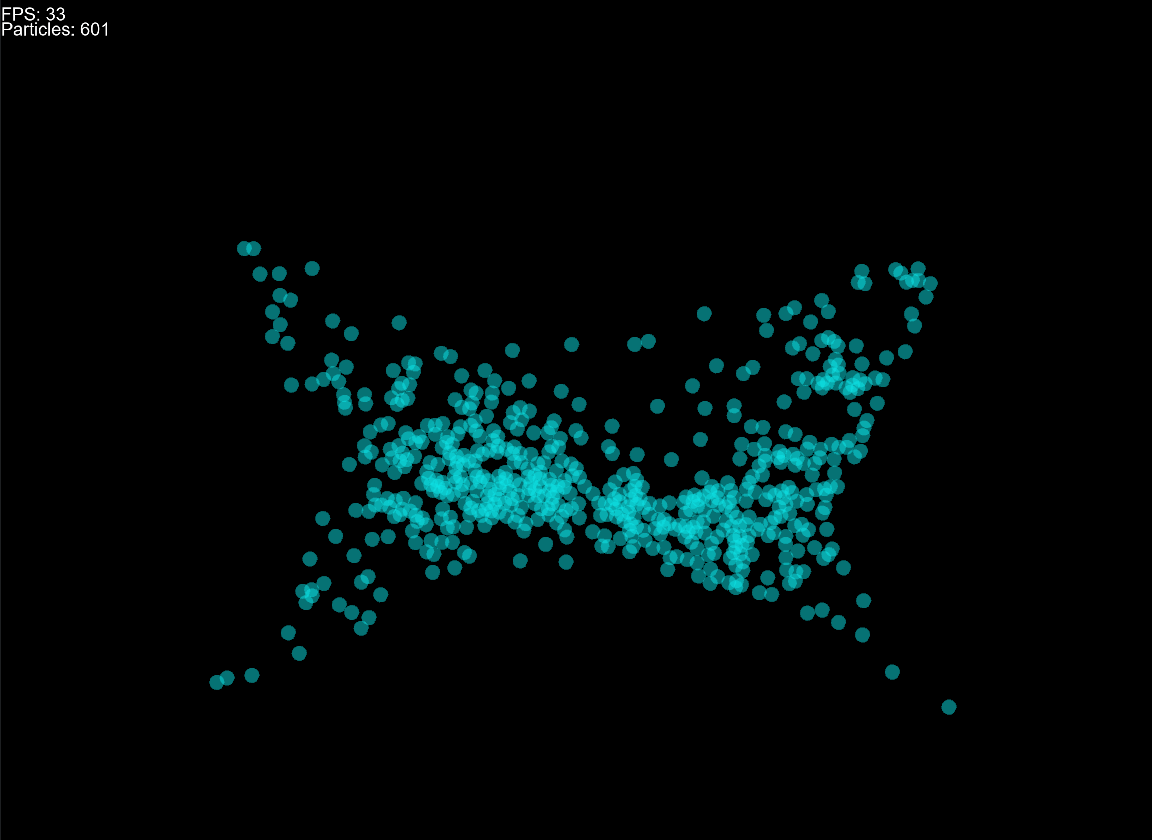
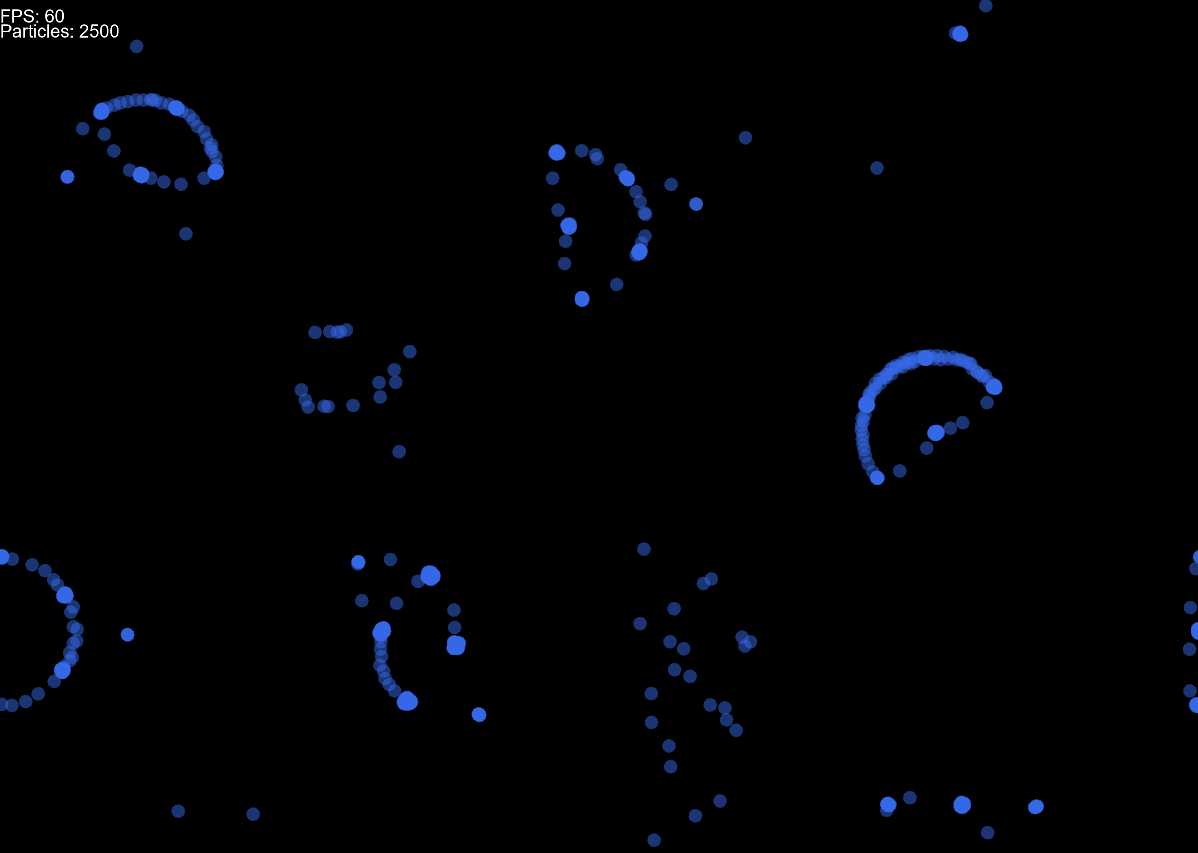
Distance calculation reworked

diff --git a/src/graphics/main/GraphicContext.cpp b/src/graphics/main/GraphicContext.cpp
@@ -234,8 +234,8 @@ void GraphicContext::Render()
     shader_particle->SetVec3("particleColor", glm::vec3(0.21, 0.41, 0.91));
     glBindVertexArray(ParticleAdapter::VAO);
     
-    float repulsion_factor = 0.00025f; // You can adjust this value
-    float attraction_factor = 0.0001f; // You can adjust this value
+    float repulsion_factor = 0.1f; // You can adjust this value
+    float attraction_factor = 0.04f; // You can adjust this value
 
     m_ParticleAdaptersMutex.lock();
     for(int i = 0; i < nb_ParticleAdapters3; i++)
@@ -249,56 +249,99 @@ void GraphicContext::Render()
         __m256 scalar_x = _mm256_set1_ps(xvalue);
         __m256 scalar_y = _mm256_set1_ps(yvalue);
 
-        for(int j = 0; (j+8) < nb_ParticleAdapters3; j+=8)
+        // Do each configuration considering the repetition of the world
+        // Careful, for each configuration, sometimes the configuration is within worldbounds, you can't apply it.
+        // find other configurations that are outside worldbounds to simulate the repetition of the world.
+        // Ignoring first configuration (scalar_x, scalar_y), it will be the first calculation.
+        std::vector<std::pair<__m256, __m256>> vec_scalarXY_config;
+        vec_scalarXY_config.push_back(std::make_pair(scalar_x, scalar_y));
+
+        __m256 scalarX_left_to_right = _mm256_add_ps(scalar_x, _mm256_set1_ps(worldWidth));
+        __m256 scalarX_right_to_left = _mm256_sub_ps(scalar_x, _mm256_set1_ps(worldWidth));
+        __m256 scalarY_bottom_to_top = _mm256_add_ps(scalar_y, _mm256_set1_ps(worldHeight));
+        __m256 scalarY_top_to_bottom = _mm256_sub_ps(scalar_y, _mm256_set1_ps(worldHeight));
+
+        if(xvalue < (worldWidth / 2))
+        {
+            if(yvalue < (worldHeight / 2))
+            {
+                // Bottom left corner.
+                vec_scalarXY_config.push_back(std::make_pair(scalar_x, scalarY_bottom_to_top)); // repetition of y on (bottom transported to top)
+                vec_scalarXY_config.push_back(std::make_pair(scalarX_left_to_right, scalar_y)); // repetition of x on (left transported to right)
+            }
+            else
+            {
+                // Top left corner.
+                vec_scalarXY_config.push_back(std::make_pair(scalar_x, scalarY_top_to_bottom)); // repetition of y on (top transported to bottom)
+                vec_scalarXY_config.push_back(std::make_pair(scalarX_left_to_right, scalar_y)); // repetition of x on (left transported to right)
+            }
+        }else 
+        {
+            if(yvalue < (worldHeight / 2))
+            {
+                // Bottom right corner.
+                vec_scalarXY_config.push_back(std::make_pair(scalar_x, scalarY_bottom_to_top)); // repetition of y on (bottom transported to top)
+                vec_scalarXY_config.push_back(std::make_pair(scalarX_right_to_left, scalar_y)); // repetition of x on (right transported to left)
+            }
+            else
+            {
+                // Top right corner.
+                vec_scalarXY_config.push_back(std::make_pair(scalar_x, scalarY_top_to_bottom)); // repetition of y on (top transported to bottom)
+                vec_scalarXY_config.push_back(std::make_pair(scalarX_right_to_left, scalar_y)); // repetition of x on (right transported to left)
+            }
+        }    
+        
+        int sizeConfig = vec_scalarXY_config.size();
+        
+
+        for(int j = 0; (j+8) <= nb_ParticleAdapters3; j+=8)
         {
             // load vector (other x and y)
             __m256 vecX = _mm256_load_ps(&m_ParticleAdapters3_posX[j]);
             __m256 vecY = _mm256_load_ps(&m_ParticleAdapters3_posY[j]);
-            // Calculate the distance between the current particle and all the other
+            // Calculate the minimal distance considering the available configurations
+            // init distance, sub_x, sub_y
             __m256 sub_x = _mm256_sub_ps(vecX, scalar_x);
             __m256 sub_y = _mm256_sub_ps(vecY, scalar_y);
+            
+            __m256 distance = _mm256_add_ps(_mm256_mul_ps(sub_x, sub_x), _mm256_mul_ps(sub_y, sub_y));
 
+            for(int k= 0; k < sizeConfig; k++)
+            {
+                __m256 tempsub_x = _mm256_sub_ps(vecX, vec_scalarXY_config[k].first);
+                __m256 tempsub_y = _mm256_sub_ps(vecY, vec_scalarXY_config[k].second);
+                __m256 distance_temp = _mm256_add_ps(_mm256_mul_ps(tempsub_x, tempsub_x), _mm256_mul_ps(tempsub_y, tempsub_y));
+                __m256 mask = _mm256_cmp_ps(distance_temp, distance, _CMP_LT_OQ);
+                distance = _mm256_blendv_ps(distance, distance_temp, mask);
+                sub_x = _mm256_blendv_ps(sub_x, tempsub_x, mask);
+                sub_y = _mm256_blendv_ps(sub_y, tempsub_y, mask);
+            }
 
-            // ---- Needs to be reworked, it's not working properly (particles find a spot to rest and don't move anymore or at least, don't make something uniform)
-            __m256 mask_x = _mm256_cmp_ps(sub_x, _mm256_set1_ps(800.0f), _CMP_GT_OQ);
-            __m256 mask_y = _mm256_cmp_ps(sub_y, _mm256_set1_ps(600.0f), _CMP_GT_OQ);
-            __m256 mask_x2 = _mm256_cmp_ps(sub_x, _mm256_set1_ps(-800.0f), _CMP_LT_OQ);
-            __m256 mask_y2 = _mm256_cmp_ps(sub_y, _mm256_set1_ps(-600.0f), _CMP_LT_OQ);
-            __m256 other_x = _mm256_blendv_ps(vecX, _mm256_sub_ps(vecX, _mm256_set1_ps(1600.0f)), mask_x);
-            __m256 other_y = _mm256_blendv_ps(vecY, _mm256_sub_ps(vecY, _mm256_set1_ps(1200.0f)), mask_y);
-            other_x = _mm256_blendv_ps(other_x, _mm256_add_ps(other_x, _mm256_set1_ps(1600.0f)), mask_x2);
-            other_y = _mm256_blendv_ps(other_y, _mm256_add_ps(other_y, _mm256_set1_ps(1200.0f)), mask_y2);
-            sub_x = _mm256_sub_ps(other_x, scalar_x);
-            sub_y = _mm256_sub_ps(other_y, scalar_y);
-            // -----------------
-            __m256 distance = _mm256_sqrt_ps(_mm256_add_ps(_mm256_mul_ps(sub_x, sub_x), _mm256_mul_ps(sub_y, sub_y)));
+            // sqrt
+            __m256 mask_sqrt = _mm256_cmp_ps(distance, _mm256_set1_ps(0.0f), _CMP_GT_OQ); // prevent division by 0
+            distance = _mm256_blendv_ps(_mm256_set1_ps(0.0f), _mm256_sqrt_ps(distance), mask_sqrt);
+
             // // Calculate the direction between the current particle and all the others
-            __m256 mask_repulsion = _mm256_cmp_ps(distance, _mm256_set1_ps(50.0f), _CMP_LT_OQ);
-            // Calculate the direction between the current particle and all the others
-            __m256 mask_direction = _mm256_cmp_ps(distance, _mm256_setzero_ps(), _CMP_EQ_OQ);
-            __m256 direction_x = _mm256_blendv_ps(_mm256_div_ps(sub_x, distance), _mm256_set1_ps(0.0f), mask_direction);
-            __m256 direction_y = _mm256_blendv_ps(_mm256_div_ps(sub_y, distance), _mm256_set1_ps(0.0f), mask_direction);
-            // invert direction if the particle is too close
-            __m256 mask_invert = _mm256_cmp_ps(distance, _mm256_set1_ps(50.0f), _CMP_LT_OQ);
-            direction_x = _mm256_blendv_ps(direction_x, _mm256_mul_ps(direction_x, _mm256_set1_ps(-1.0f)), mask_invert);
-            direction_y = _mm256_blendv_ps(direction_y, _mm256_mul_ps(direction_y, _mm256_set1_ps(-1.0f)), mask_invert);
-            // normalize direction to an unit vector
-            __m256 direction_norm = _mm256_sqrt_ps(_mm256_add_ps(_mm256_mul_ps(direction_x, direction_x), _mm256_mul_ps(direction_y, direction_y)));
-            __m256 mask_norm = _mm256_cmp_ps(direction_norm, _mm256_setzero_ps(), _CMP_EQ_OQ);
-            direction_x = _mm256_blendv_ps(_mm256_div_ps(direction_x, direction_norm), _mm256_set1_ps(0.0f), mask_norm);
-            direction_y = _mm256_blendv_ps(_mm256_div_ps(direction_y, direction_norm), _mm256_set1_ps(0.0f), mask_norm);
+            // Calculate the direction between the current particle and all the others normalisation of the vector
+            // use mask to avoid division by 0
+            __m256 direction_x = _mm256_blendv_ps(sub_x, _mm256_div_ps(sub_x, distance), mask_sqrt);
+            __m256 direction_y = _mm256_blendv_ps(sub_y, _mm256_div_ps(sub_y, distance), mask_sqrt);
 
             // Calculate the movement of the current particle, if attraction or repulsion depending
             // on the distance between the current particle and the others
-            __m256 mask_attraction = _mm256_cmp_ps(distance, _mm256_set1_ps(100.0f), _CMP_GT_OQ);
+            __m256 mask_attraction = _mm256_cmp_ps(distance, _mm256_set1_ps(200.0f), _CMP_GT_OQ);
             __m256 attraction_x = _mm256_blendv_ps(_mm256_mul_ps(direction_x, _mm256_set1_ps(attraction_factor)), _mm256_set1_ps(0.0f), mask_attraction);
             __m256 attraction_y = _mm256_blendv_ps(_mm256_mul_ps(direction_y, _mm256_set1_ps(attraction_factor)), _mm256_set1_ps(0.0f), mask_attraction);
 
             // calculate repulsion 
-            __m256 repulsion_x = _mm256_blendv_ps(_mm256_mul_ps(sub_x, _mm256_set1_ps(repulsion_factor)), _mm256_set1_ps(0.0f), mask_repulsion);
-            __m256 repulsion_y = _mm256_blendv_ps(_mm256_mul_ps(sub_y, _mm256_set1_ps(repulsion_factor)), _mm256_set1_ps(0.0f), mask_repulsion);
+            // invert direction
+            __m256 mask_repulsion = _mm256_cmp_ps(distance, _mm256_set1_ps(100.0f), _CMP_LT_OQ);
+            direction_x = _mm256_blendv_ps(_mm256_set1_ps(0.0f), _mm256_mul_ps(direction_x, _mm256_set1_ps(-1.0f)), mask_repulsion);
+            direction_y = _mm256_blendv_ps(_mm256_set1_ps(0.0f), _mm256_mul_ps(direction_y, _mm256_set1_ps(-1.0f)), mask_repulsion);
+            __m256 repulsion_x = _mm256_blendv_ps(_mm256_set1_ps(0.0f), _mm256_mul_ps(direction_x, _mm256_set1_ps(repulsion_factor)), mask_repulsion);
+            __m256 repulsion_y = _mm256_blendv_ps(_mm256_set1_ps(0.0f), _mm256_mul_ps(direction_y, _mm256_set1_ps(repulsion_factor)), mask_repulsion);
 
-            // // resulting movement
+            // // resulting movement mask
             __m256 mvt_x_tmp = _mm256_add_ps(attraction_x, repulsion_x);
             __m256 mvt_y_tmp = _mm256_add_ps(attraction_y, repulsion_y);
 
@@ -318,19 +361,20 @@ void GraphicContext::Render()
         //     // std::cout << "TODO" << std::endl;
         // }
 
-        m_ParticleAdapters3_posX[i] += mvt_x*1.0f;
-        m_ParticleAdapters3_posY[i] += mvt_y*1.0f;
+        m_ParticleAdapters3_posX[i] += mvt_x;
+        m_ParticleAdapters3_posY[i] += mvt_y;
 
         // // Check if the particle is out of the screen
         if(m_ParticleAdapters3_posX[i] < 0.0f)
             m_ParticleAdapters3_posX[i] = m_ParticleAdapters3_posX[i] + 1600.0f;
-        else if(m_ParticleAdapters3_posX[i] > 1600.0f)
+        else if(m_ParticleAdapters3_posX[i] >= 1600.0f)
             m_ParticleAdapters3_posX[i] = m_ParticleAdapters3_posX[i] - 1600.0f;
         if(m_ParticleAdapters3_posY[i] < 0.0f)
             m_ParticleAdapters3_posY[i] = m_ParticleAdapters3_posY[i] + 1200.0f;
-        else if(m_ParticleAdapters3_posY[i] > 1200.0f)
+        else if(m_ParticleAdapters3_posY[i] >= 1200.0f)
             m_ParticleAdapters3_posY[i] = m_ParticleAdapters3_posY[i] - 1200.0f;
 
+        // std::cout << "drawing at " << m_ParticleAdapters3_posX[i] << " " << m_ParticleAdapters3_posY[i] << std::endl;
         shader_particle->SetVec2("shiftPos", glm::vec2(m_ParticleAdapters3_posX[i], m_ParticleAdapters3_posY[i]));
         glDrawArrays(GL_TRIANGLE_FAN, 0, ParticleAdapter::nbVertices);
     }

diff --git a/src/common/Scene.cpp b/src/common/Scene.cpp
@@ -85,7 +85,7 @@ Scene* Scene::CreateScene_2(GraphicContext* graphicContext)
     // generator->Generate(620, ParticleClass::PARTICLE_CLASS_A);
     // generator->Generate(000, ParticleClass::PARTICLE_CLASS_B);
 
-    graphicContext->AddParticles(1600);
+    graphicContext->AddParticles(2500);
     return scene;
 }
 
